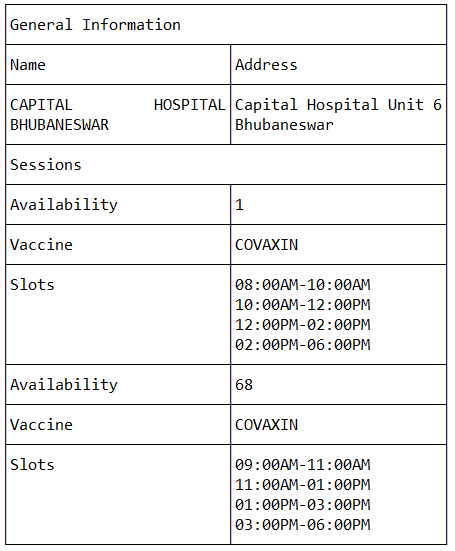
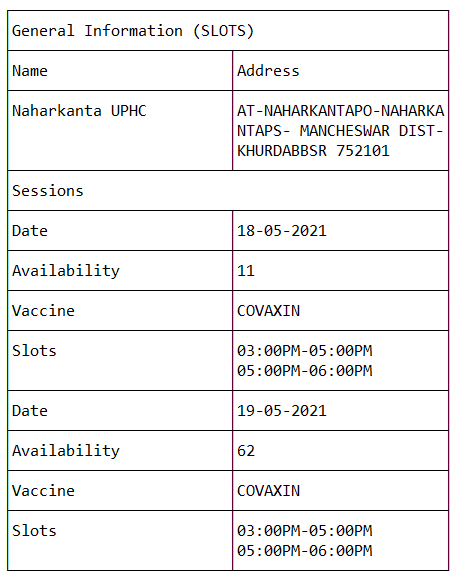
Committing addition of date

Changed region(s): [[0.0, 0.0, 0.9846, 1.0]]

diff --git a/cowin/src/main/java/com/tracker/cowin/batch/jobs/ApplicationTask.java b/cowin/src/main/java/com/tracker/cowin/batch/jobs/ApplicationTask.java
@@ -41,6 +41,8 @@ public class ApplicationTask implements Runnable{
 						at.addRow(null,"Sessions");
 						for(Session session:center.getSessions()) {
 							at.addRule();
+							at.addRow("Date",session.getDate());
+							at.addRule();
 							at.addRow("Availability",session.getAvailableCapacity());
 							at.addRule();
 							at.addRow("Vaccine", session.getVaccine());
